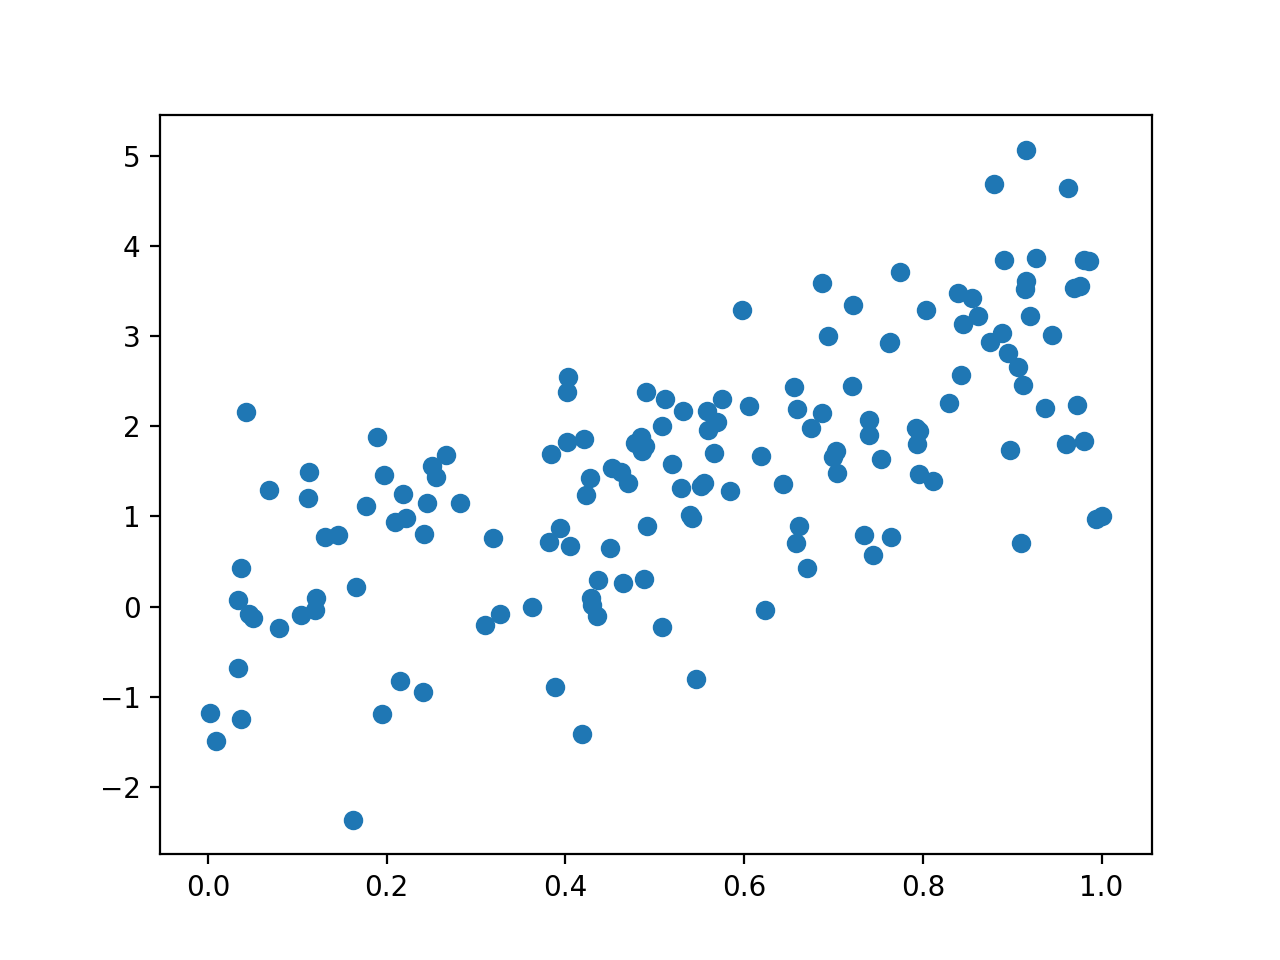
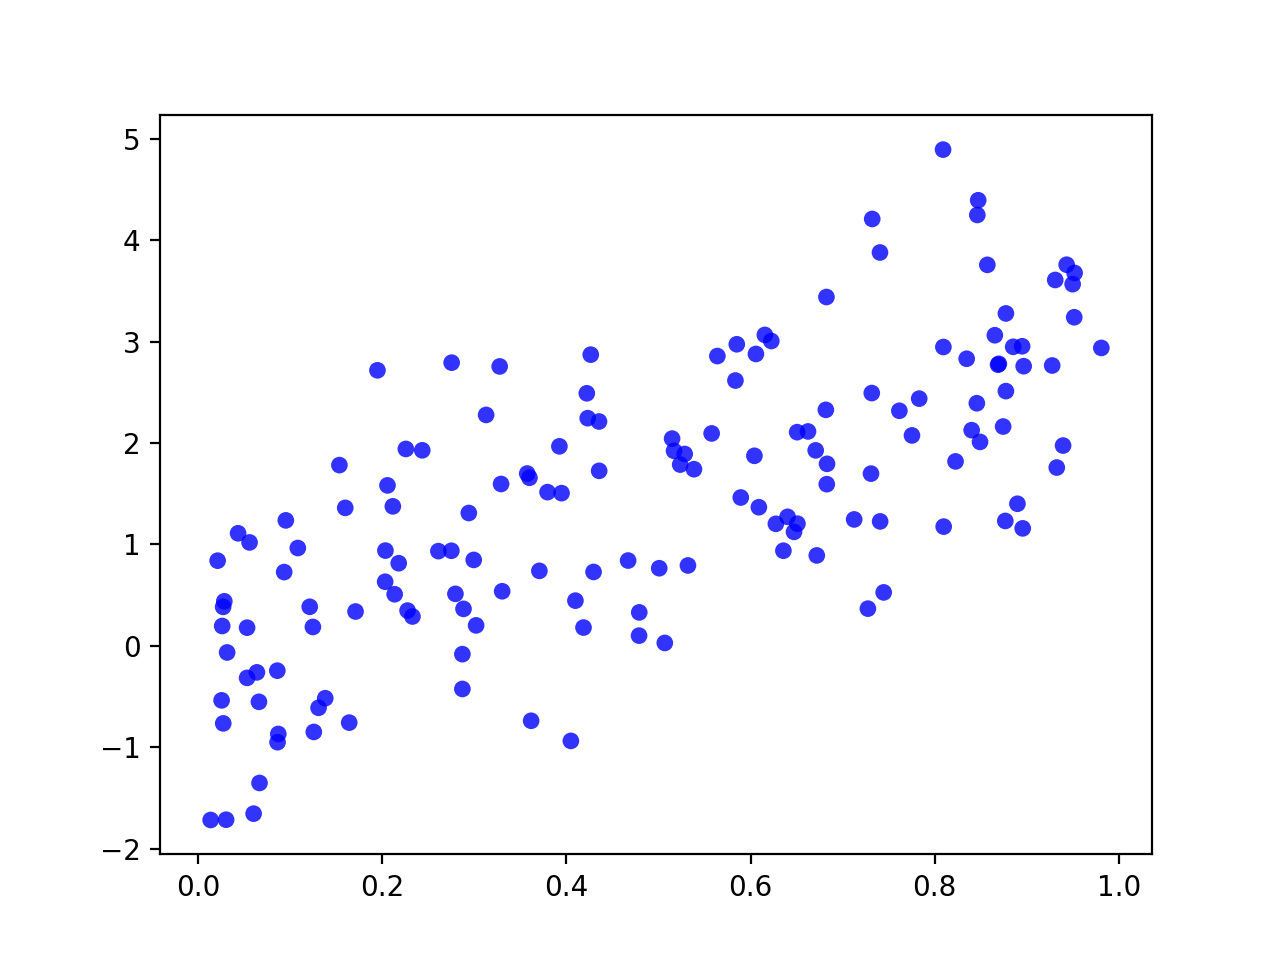
Reorganize package and add docstrings

diff --git a/DataGen.py b/DataGen.py
@@ -1,0 +1,48 @@
+import numpy as np
+from scipy.stats import multivariate_normal
+
+
+class NumericData:
+    @staticmethod
+    def generate_data_linear(low_bound=1, high_bound=10, num_points=50, b0=0, b1=3.55, error_var=6):
+        """Generate data with a linear relationship using Gaussian error
+
+        :param low_bound: lower bound of x data (default 1)
+        :param high_bound: upper bound of x data (default 10)
+        :param num_points: number of data points (default 50)
+        :param b0: intercept coefficient (default 0)
+        :param b1: slope coefficient (default 3.55)
+        :param error_var: Gaussian error variance (default 6)
+        :return: [x_data, y_data]
+        """
+        x_vals = np.random.uniform(low_bound, high_bound, num_points)
+        error = np.random.normal(0, error_var, num_points)
+        y_vals = (x_vals*b1 + b0 + error)
+        return np.array([x_vals, y_vals])
+
+    @staticmethod
+    def generate_data_cluster(num_points=50, sample_balance=10, k=2, dims=3, random_factor=10):
+        """Generate categorical cluster data
+
+        :param num_points: number of data points (default 50)
+        :param sample_balance: balance of sampling frequency per class (default 10)
+        :param k: number of data classes (default 2)
+        :param dims: number of dimensions (default 3)
+        :param random_factor: difference in cluster means (default 10)
+        :return: [x_data, y_data]
+        """
+        sample_prob = np.random.dirichlet(np.ones(k) * sample_balance, size=1)[0]
+        means = np.multiply(np.random.rand(k, dims), np.random.randint(1, random_factor, [k, dims]))
+        covariances = np.random.rand(k, dims, dims)
+
+        for mat_ind in range(len(covariances)):
+            covariances[mat_ind] = np.dot(covariances[mat_ind], covariances[mat_ind].T)
+
+        x_data = []
+        y_data = []
+        for n in range(num_points):
+            index = np.random.choice(k, 1, p=sample_prob)[0]
+            x_data.append(multivariate_normal.rvs(means[index], covariances[index]))
+            y_data.append(index)
+
+        return [np.array(x_data), np.array(y_data)]

diff --git a/generation_test.py b/generation_test.py
@@ -1,0 +1,27 @@
+from DataGen import NumericData
+import matplotlib.pyplot as plt
+
+gen_obj = NumericData
+
+
+def linear_data_example():
+    # sample usage
+    data = gen_obj.generate_data_linear(0, 1, 150, 2, 5, 1)
+    plt.scatter(data[0], data[1], alpha=0.8,
+                edgecolors='none', c='blue')
+    plt.show()
+
+
+def cluster_data_example():
+    # visualize 2D data clusters
+    data = gen_obj.generate_data_cluster(num_points=500, sample_balance=100, k=5, random_factor=15)
+    x_data = data[0].T
+    plt.scatter(x_data[0], x_data[1], c=data[1],
+                alpha=0.8, edgecolors='none',
+                cmap=plt.cm.get_cmap('Spectral', 5))
+    plt.colorbar()
+    plt.show()
+
+
+linear_data_example()
+cluster_data_example()

diff --git a/__init__.py b/__init__.py
@@ -1,0 +1,1 @@
+from DataGen import NumericData
